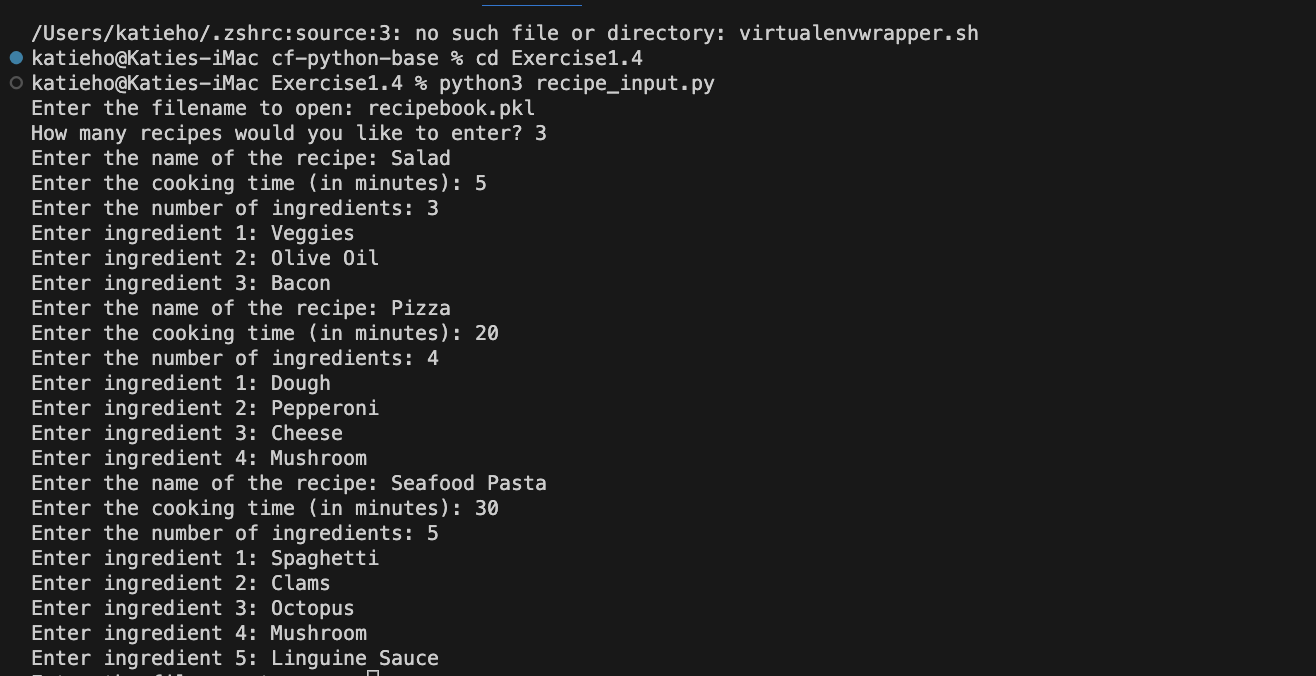
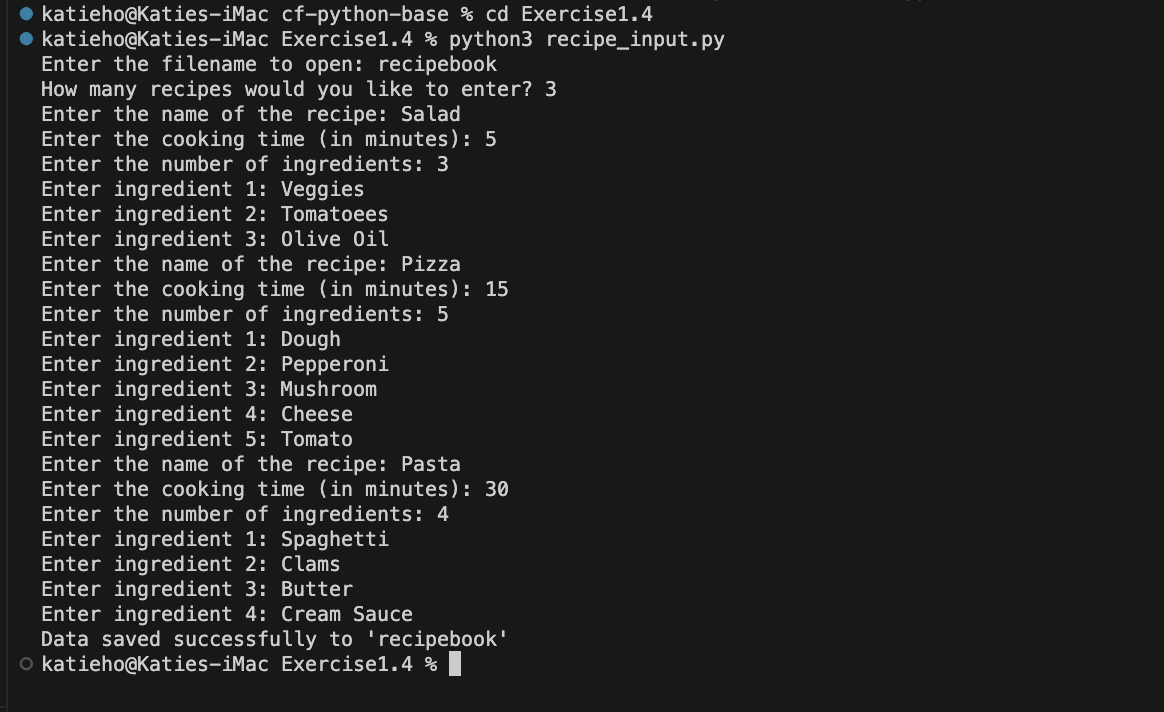
1.4

Changed region(s): [[0.0, 0.0, 0.7423, 1.0]]

diff --git a/Exercise1.4/recipe_input.py b/Exercise1.4/recipe_input.py
@@ -27,29 +27,22 @@ try:
     with open(filename, 'rb') as file:
         data = pickle.load(file)
 except FileNotFoundError:
-    data = {'recipes_list': [], 'all_ingredients': []}
+    data = {'recipes': [], 'all_ingredients': []}
 except Exception as e:
     print("An error occurred:", e)
-else:
-    file.close()
-finally:
-    recipes_list = data['recipes_list']
-    all_ingredients = data['all_ingredients']
-    
-n = int(input("How many recipes would you like to enter? "))
+    data = {'recipes': [], 'all_ingredients': []}
 
+n = int(input("How many recipes would you like to enter? "))
 for _ in range(n):
     recipe = take_recipe()
-    recipes_list.append(recipe)
+    data['recipes'].append(recipe)
     for ingredient in recipe['ingredients']:
-        if ingredient not in all_ingredients:
-            all_ingredients.append(ingredient)
-
-data = {'recipes_list': recipes_list, 'all_ingredients': all_ingredients}
+        if ingredient not in data['all_ingredients']:
+            data['all_ingredients'].append(ingredient)
 
 try:
-    filename = input("Enter the filename to open: ")
-    with open(filename, 'wb') as file:
-        data = pickle.dump(file)
+    with open('recipebook', 'wb') as file:
+        pickle.dump(data, file)
+    print("Data saved successfully to 'recipebook'")
 except Exception as e:
     print("An error occurred while saving data:", e)

diff --git a/Exercise1.4/recipe_search.py b/Exercise1.4/recipe_search.py
@@ -9,12 +9,7 @@ def display_recipe(recipe):
     print(f"Difficulty level: {recipe['difficulty']}")
 
 def search_ingredient(data):
-    all_ingredients = set()
-    for recipe in data["recipes"]:
-        all_ingredients.update(recipe['ingredients'])
-    
-    all_ingredients = list(all_ingredients)
-    
+    all_ingredients = data['all_ingredients']
     for i, ingredient in enumerate(all_ingredients):
         print(f"{i+1}. {ingredient}")
     
@@ -24,7 +19,7 @@ def search_ingredient(data):
     except (ValueError, IndexError):
         print("Invalid input. Please enter a valid number.")
         return
-    
+
     found_recipes = [recipe for recipe in data["recipes"] if ingredient_searched in recipe['ingredients']]
     
     if found_recipes:
@@ -35,12 +30,12 @@ def search_ingredient(data):
         print(f"No recipes found containing {ingredient_searched}.")
 
 try:
-    filename = input("Enter the filename that contains your recipe data: ")
-    with open(filename, 'rb') as file:
+    with open('recipebook', 'rb') as file:
         data = pickle.load(file)
+    search_ingredient(data)
 except FileNotFoundError:
-    print("File not found.")
+    print("File 'recipebook' not found.")
 except EOFError:
     print("The file is empty or corrupted.")
-else:
-    search_ingredient(data)
+except Exception as e:
+    print(f"An error occurred: {e}")

diff --git a/Exercise1.4/create_recipebook.py b/Exercise1.4/create_recipebook.py
@@ -1,0 +1,25 @@
+import pickle
+
+recipes_list = [
+    {
+        "name": "Scrambled Eggs",
+        "cooking_time": 5,
+        "ingredients": ["Eggs", "Salt", "Pepper"],
+        "difficulty": "Easy"
+    },
+    # Add more recipes here
+]
+
+all_ingredients = set()
+for recipe in recipes_list:
+    all_ingredients.update(recipe['ingredients'])
+
+data = {
+    "recipes_list": recipes_list,
+    "all_ingredients": list(all_ingredients)
+}
+
+with open('recipebook', 'wb') as file:
+    pickle.dump(data, file)
+
+print("Recipe data has been saved to 'recipebook'")
